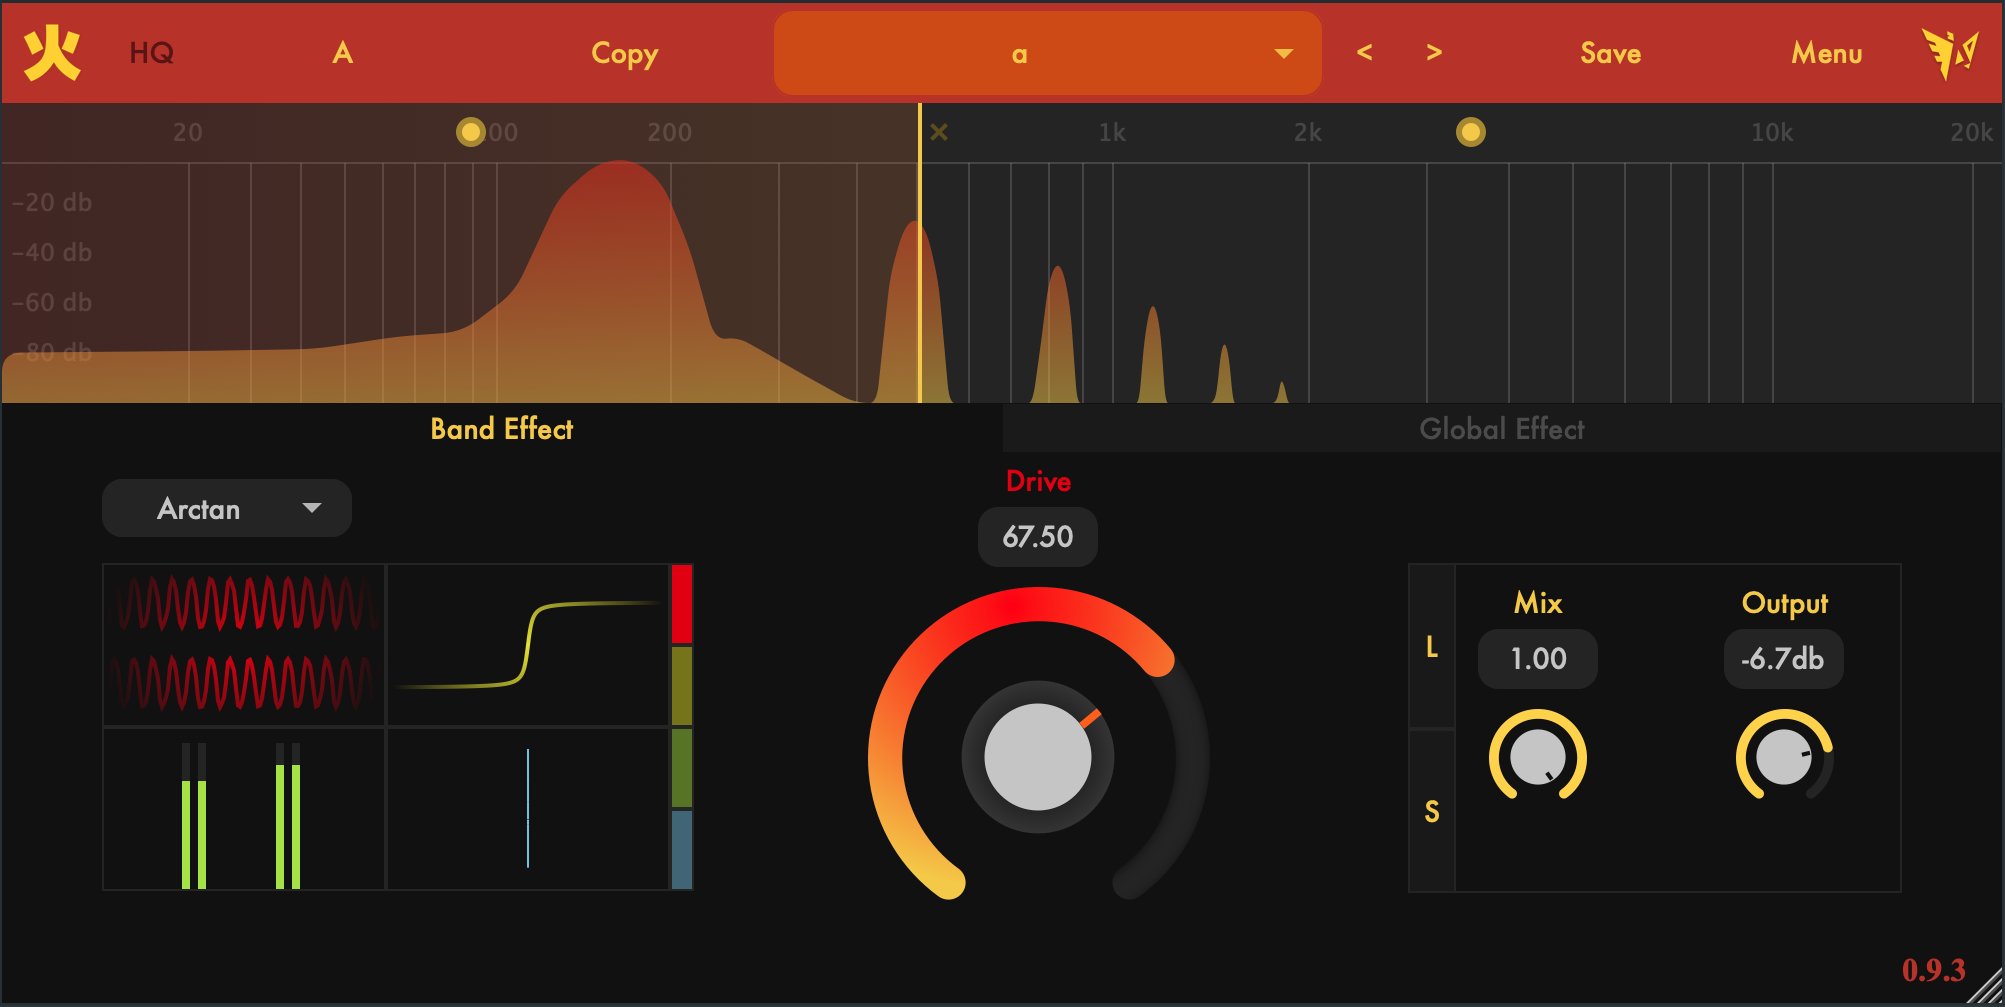
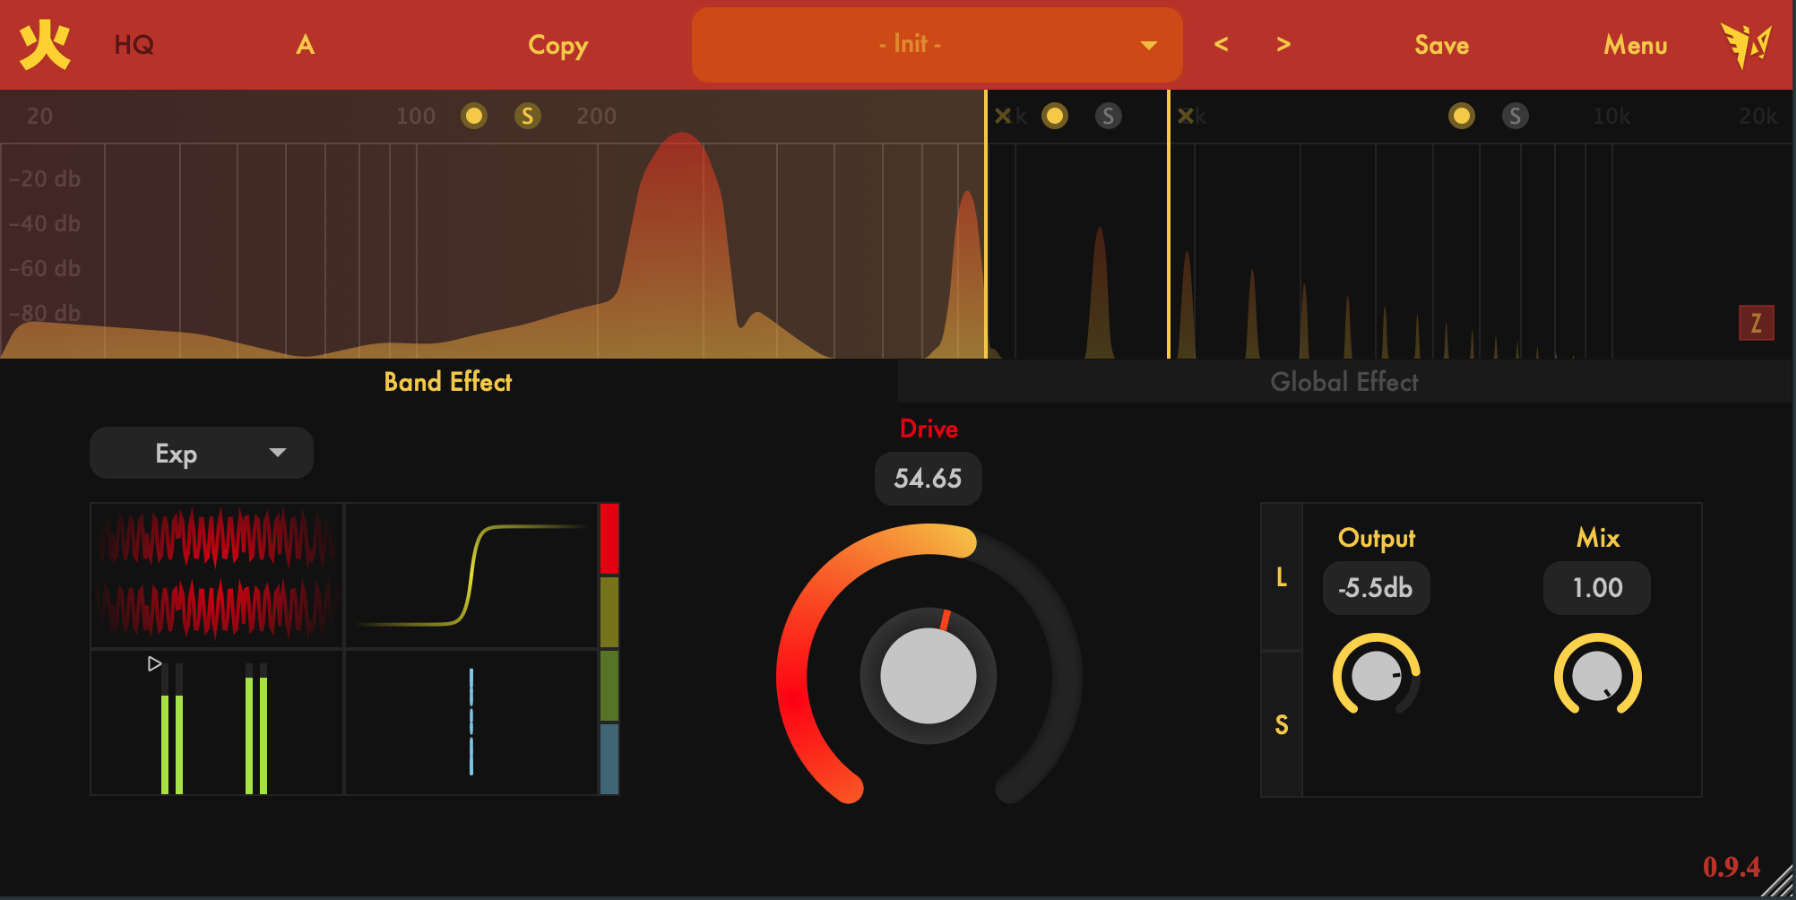
0.9.4 b19 Enable button improved: disable other sliders
Former-commit-id: 95ada5dc52462bc49c2badffe95e89dbf116a0d0

diff --git a/Source/Panels/ControlPanel/BandPanel.cpp b/Source/Panels/ControlPanel/BandPanel.cpp
@@ -295,6 +295,7 @@ BandPanel::~BandPanel()
     shapeSwitch.setLookAndFeel(nullptr);
     widthSwitch.setLookAndFeel(nullptr);
     compressorSwitch.setLookAndFeel(nullptr);
+    
 }
 
 void BandPanel::paint (juce::Graphics& g)
@@ -637,49 +638,31 @@ void BandPanel::setInvisible(juce::OwnedArray<juce::Component, juce::CriticalSec
     }
 }
 
+void BandPanel::setBandKnobsStates(int index, bool state)
+{
+    componentArray1 = {&driveKnob1, &outputKnob1, &mixKnob1, recKnob1, biasKnob1, compThreshKnob1, compRatioKnob1, widthKnob1, &linkedButton1, &safeButton1};
+    componentArray2 = {&driveKnob2, &outputKnob2, &mixKnob2, recKnob2, biasKnob2, compThreshKnob2, compRatioKnob2, widthKnob2, &linkedButton2, &safeButton2};
+    componentArray3 = {&driveKnob3, &outputKnob3, &mixKnob3, recKnob3, biasKnob3, compThreshKnob3, compRatioKnob3, widthKnob3, &linkedButton3, &safeButton3};
+    componentArray4 = {&driveKnob4, &outputKnob4, &mixKnob4, recKnob4, biasKnob4, compThreshKnob4, compRatioKnob4, widthKnob4, &linkedButton4, &safeButton4};
+    
+    juce::Array<juce::Component *>* componentArray;
+    if (index == 0) componentArray = &componentArray1;
+    if (index == 1) componentArray = &componentArray2;
+    if (index == 2) componentArray = &componentArray3;
+    if (index == 3) componentArray = &componentArray4;
 
-//void BandPanel::changeSliderState(int bandNum, bool isPresetChanged)
-//{
-//    if (bandNum == 0)
-//    {
-//        setSliderState(&processor, driveKnob1, MODE_ID1, tempDriveValue[0], isPresetChanged);
-//        setSliderState(&processor, *biasKnob1, MODE_ID1, tempBiasValue[0], isPresetChanged);
-//    }
-//    else if (bandNum == 1)
-//    {
-//        setSliderState(&processor, driveKnob2, MODE_ID2, tempDriveValue[1], isPresetChanged);
-//        setSliderState(&processor, *biasKnob2, MODE_ID2, tempBiasValue[1], isPresetChanged);
-//    }
-//    else if (bandNum == 2)
-//    {
-//        setSliderState(&processor, driveKnob3, MODE_ID3, tempDriveValue[2], isPresetChanged);
-//        setSliderState(&processor, *biasKnob3, MODE_ID3, tempBiasValue[2], isPresetChanged);
-//    }
-//    else if (bandNum == 3)
-//    {
-//        setSliderState(&processor, driveKnob4, MODE_ID4, tempDriveValue[3], isPresetChanged);
-//        setSliderState(&processor, *biasKnob4, MODE_ID4, tempBiasValue[3], isPresetChanged);
-//    }
-//}
-//
-//void BandPanel::setSliderState(FireAudioProcessor* processor, juce::Slider& slider, juce::String paramId, float &tempValue, bool isPresetChanged)
-//{
-//    auto val = processor->treeState.getRawParameterValue(paramId);
-//    int selection = val->load();
-//    if (selection == 0)
-//    {
-//        tempValue = slider.getValue();
-//        slider.setValue(0);
-//        slider.setEnabled(false);
-//    }
-//    else if (isPresetChanged)
-//    {
-//        slider.setEnabled(true);
-//    }
-//    else if (!slider.isEnabled())
-//    {
-//        slider.setValue(tempValue);
-//        slider.setEnabled(true);
-//    }
-//}
-
+    if (state)
+    {
+        for (int i = 0; i < componentArray->size(); i++)
+        {
+            componentArray->data()[i]->setEnabled(true);
+        }
+    }
+    else
+    {
+        for (int i = 0; i < componentArray->size(); i++)
+        {
+            componentArray->data()[i]->setEnabled(false);
+        }
+    }
+}

diff --git a/Source/PluginEditor.cpp b/Source/PluginEditor.cpp
@@ -39,6 +39,11 @@ FireAudioProcessorEditor::FireAudioProcessorEditor(FireAudioProcessor &p)
     addAndMakeVisible(multiband);
     addAndMakeVisible(filterControl);
 
+    for (int i = 0; i < 4; i++)
+    {
+        multiband.getEnableButton(i).addListener(this);
+    }
+        
     spectrum.setInterceptsMouseClicks(false, false);
     spectrum.prepareToPaintSpectrum(processor.getFFTSize(), processor.getFFTData());
     
@@ -435,6 +440,21 @@ void FireAudioProcessorEditor::buttonClicked(juce::Button *clickedButton)
             globalPanel.setVisible(true);
         }
     }
+    for (int i = 0; i < 4; i++)
+    {
+        if (clickedButton == &multiband.getEnableButton(i))
+        {
+            if (clickedButton->getToggleState())
+            {
+                bandPanel.setBandKnobsStates(i, true);
+            }
+            else
+            {
+                bandPanel.setBandKnobsStates(i, false);
+            }
+        }
+    }
+    
 }
 
 void FireAudioProcessorEditor::comboBoxChanged(juce::ComboBox *combobox)

diff --git a/Source/Panels/ControlPanel/BandPanel.h b/Source/Panels/ControlPanel/BandPanel.h
@@ -32,6 +32,7 @@ public:
     void setFocusBandNum(int num);
     void setScale(float scale);
 //    void changeSliderState(int bandNum, bool isPresetChanged);
+    void setBandKnobsStates(int index, bool state);
 private:
     FireAudioProcessor &processor;
     juce::Rectangle<int> bandKnobArea;
@@ -141,6 +142,12 @@ private:
     juce::OwnedArray<juce::Component, juce::CriticalSection> widthVector;
     juce::OwnedArray<juce::Component, juce::CriticalSection> compressorVector;
     juce::OwnedArray<juce::Component, juce::CriticalSection> oscVector;
+    
+    
+    juce::Array<juce::Component *> componentArray1;
+    juce::Array<juce::Component *> componentArray2;
+    juce::Array<juce::Component *> componentArray3;
+    juce::Array<juce::Component *> componentArray4;
     
     // Slider attachment
     std::unique_ptr<juce::AudioProcessorValueTreeState::SliderAttachment>

diff --git a/JuceLibraryCode/JucePluginDefines.h b/JuceLibraryCode/JucePluginDefines.h
@@ -74,13 +74,13 @@
  #define JucePlugin_EditorRequiresKeyboardFocus  0
 #endif
 #ifndef  JucePlugin_Version
- #define JucePlugin_Version                0.9.4 b18
+ #define JucePlugin_Version                0.9.4 b19
 #endif
 #ifndef  JucePlugin_VersionCode
  #define JucePlugin_VersionCode            0x904
 #endif
 #ifndef  JucePlugin_VersionString
- #define JucePlugin_VersionString          "0.9.4 b18"
+ #define JucePlugin_VersionString          "0.9.4 b19"
 #endif
 #ifndef  JucePlugin_VSTUniqueID
  #define JucePlugin_VSTUniqueID            JucePlugin_PluginCode

diff --git a/Source/Panels/SpectrogramPanel/Multiband.h b/Source/Panels/SpectrogramPanel/Multiband.h
@@ -58,6 +58,7 @@ public:
     void dragLinesByFreq(int freq, int index);
     int getFocusBand();
     void updateLines(int option);
+    EnableButton& getEnableButton(int index);
     
     void parameterValueChanged (int parameterIndex, float newValue) override;
     void parameterGestureChanged (int parameterIndex, bool gestureIsStarting) override { }

diff --git a/JuceLibraryCode/JuceHeader.h b/JuceLibraryCode/JuceHeader.h
@@ -47,7 +47,7 @@ namespace ProjectInfo
 {
     const char* const  projectName    = "Fire";
     const char* const  companyName    = "";
-    const char* const  versionString  = "0.9.4 b18";
+    const char* const  versionString  = "0.9.4 b19";
     const int          versionNumber  = 0x904;
 }
 #endif

diff --git a/Source/Panels/SpectrogramPanel/Multiband.cpp b/Source/Panels/SpectrogramPanel/Multiband.cpp
@@ -1046,3 +1046,8 @@ void Multiband::buttonClicked(juce::Button* button)
 //        }
 //    }
 }
+
+EnableButton& Multiband::getEnableButton(const int index)
+{
+    return *enableButton[index];
+}

diff --git a/TODO.md b/TODO.md
@@ -9,13 +9,12 @@
 1. add enable button for compressor, downsample, width, filter, etc.
 2. auto-update check when open
 3. dry mix compensation
-4. add mid-side / pan knobs
-5. mouse drag vertically to change the output volume, like Ozone or saturn2
-6. smooth spectrogram
-7. add lfo control
-8. change A/B color when switching
-9. add max input/output value for meters (currently RMS)
-10. draggle eq mouse wheel change Q, mouse click set enable/disable
+4. mouse drag vertically to change the output volume, like Ozone or saturn2
+5. smooth spectrogram
+6. add lfo control
+7. change A/B color when switching
+8. add max input/output value for meters (currently RMS)
+9. draggle eq mouse wheel change Q, mouse click set enable/disable
 
 - Improvement
 
